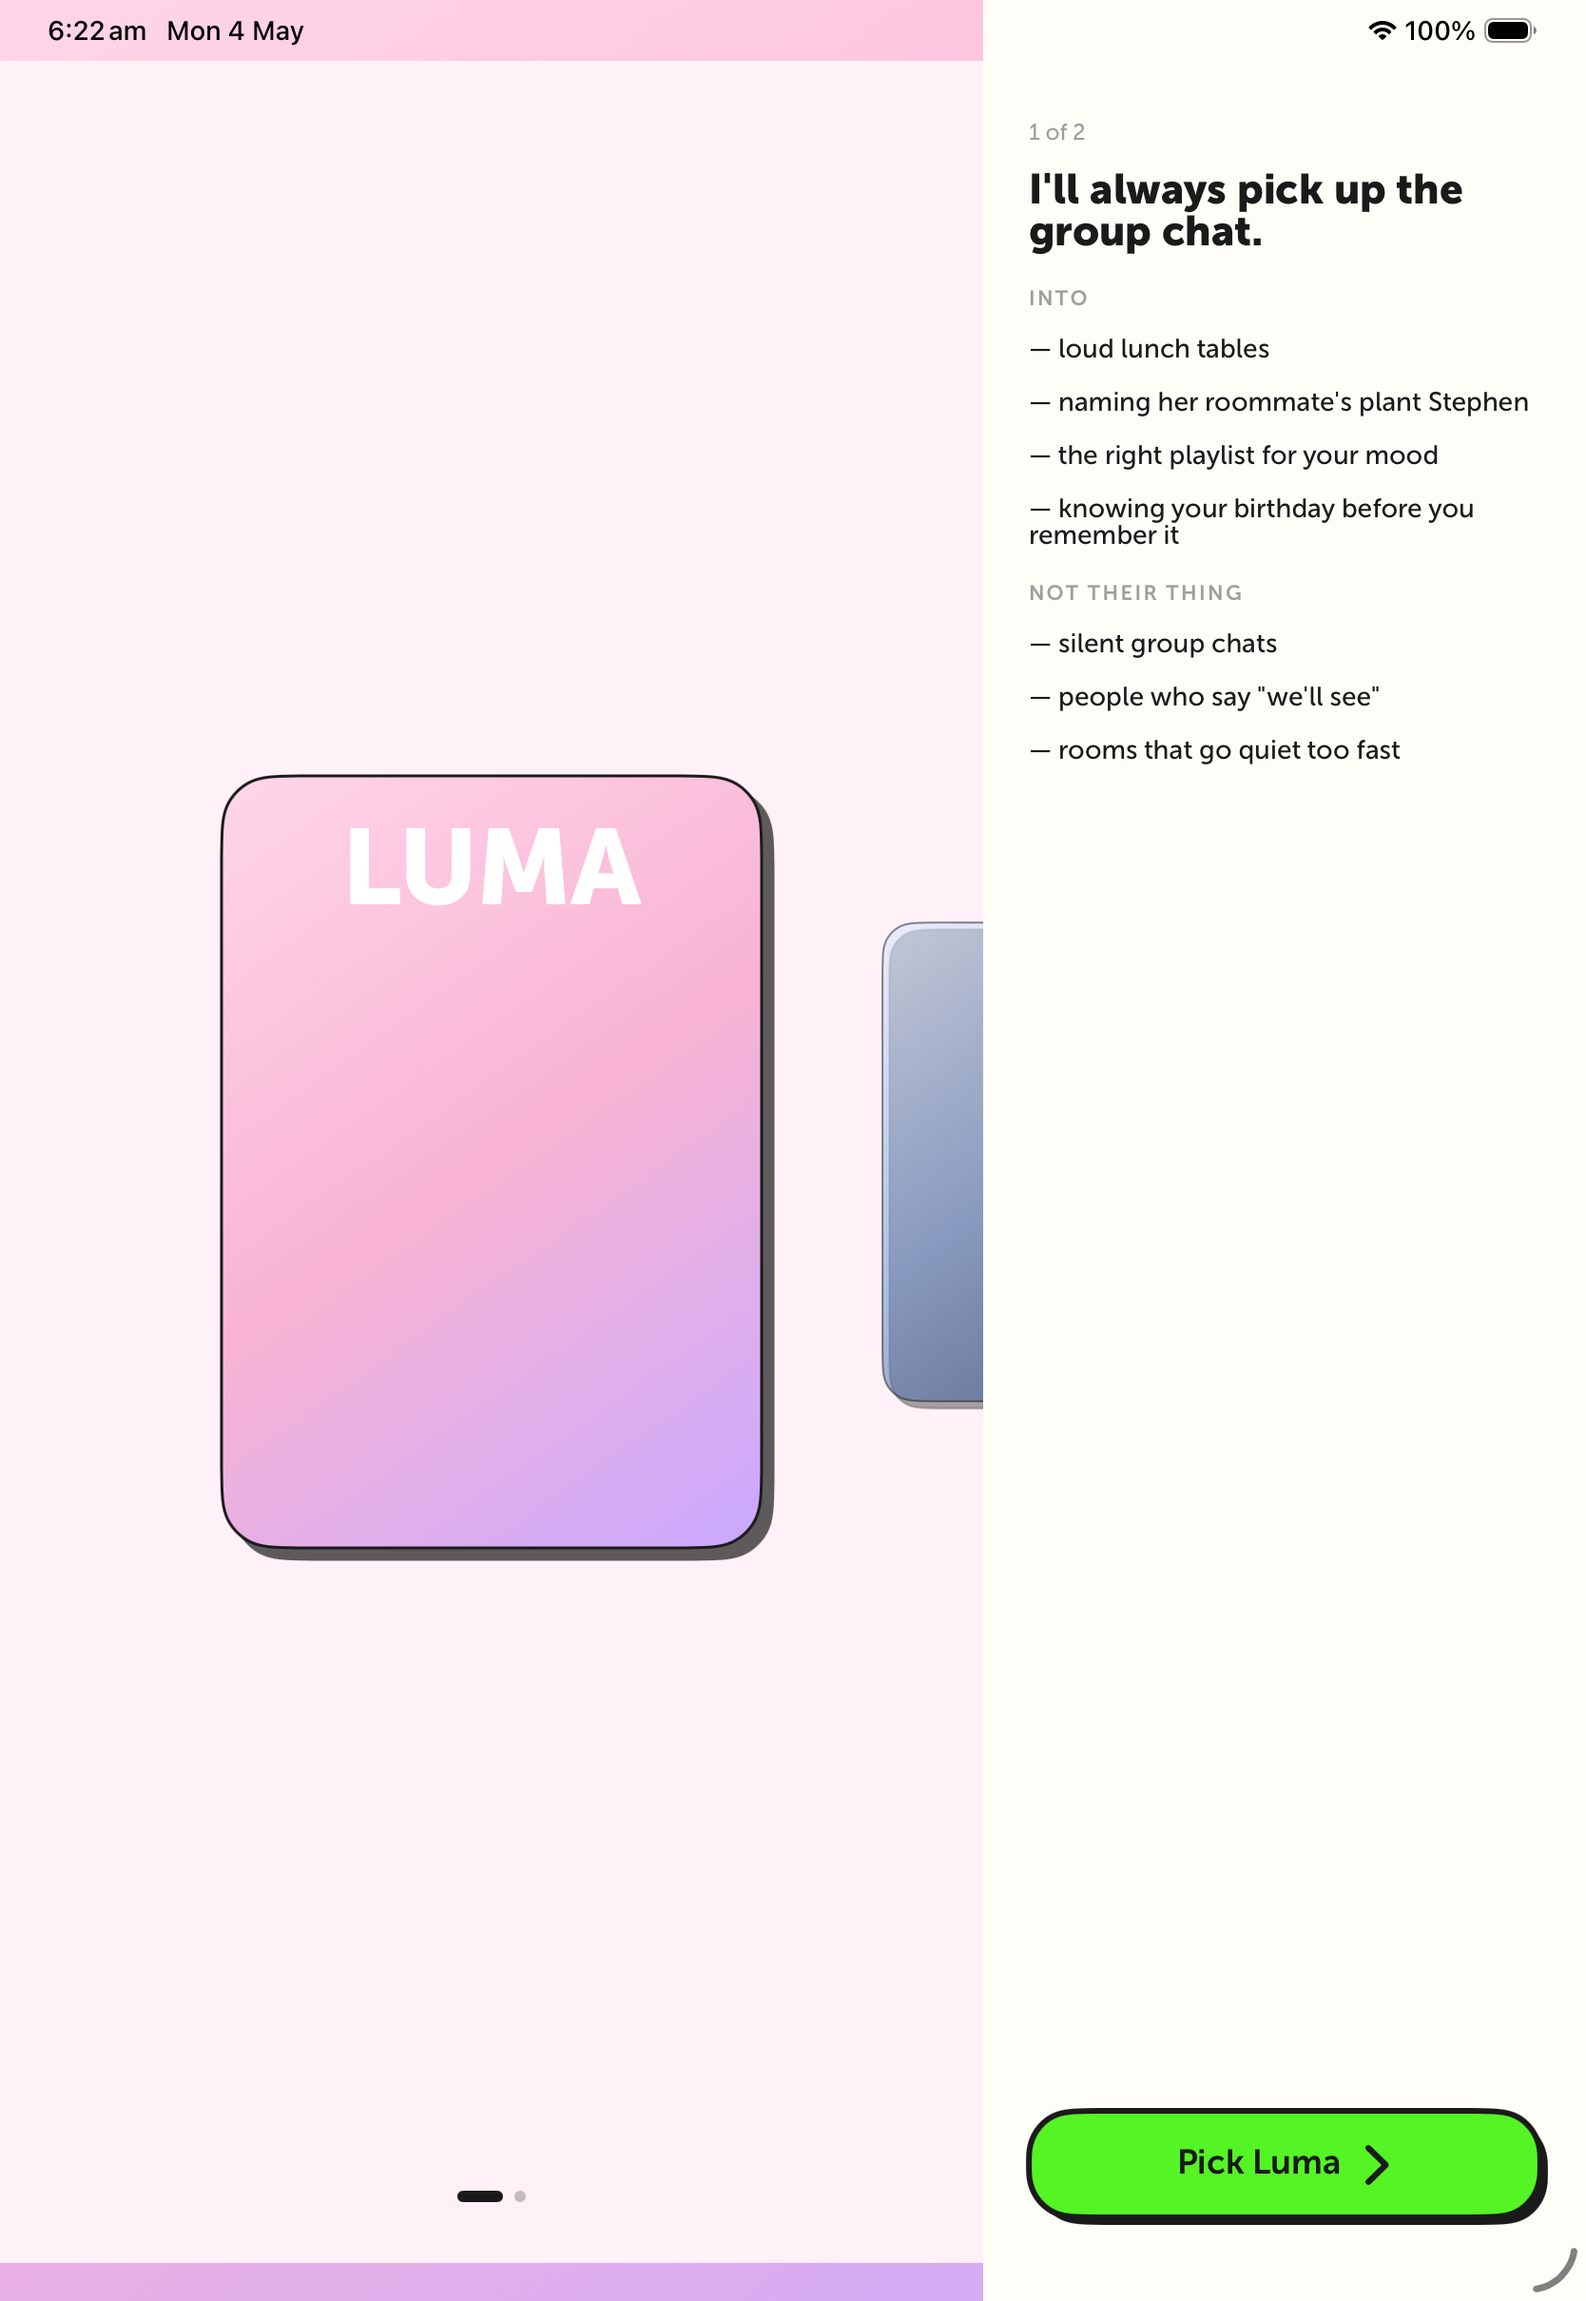
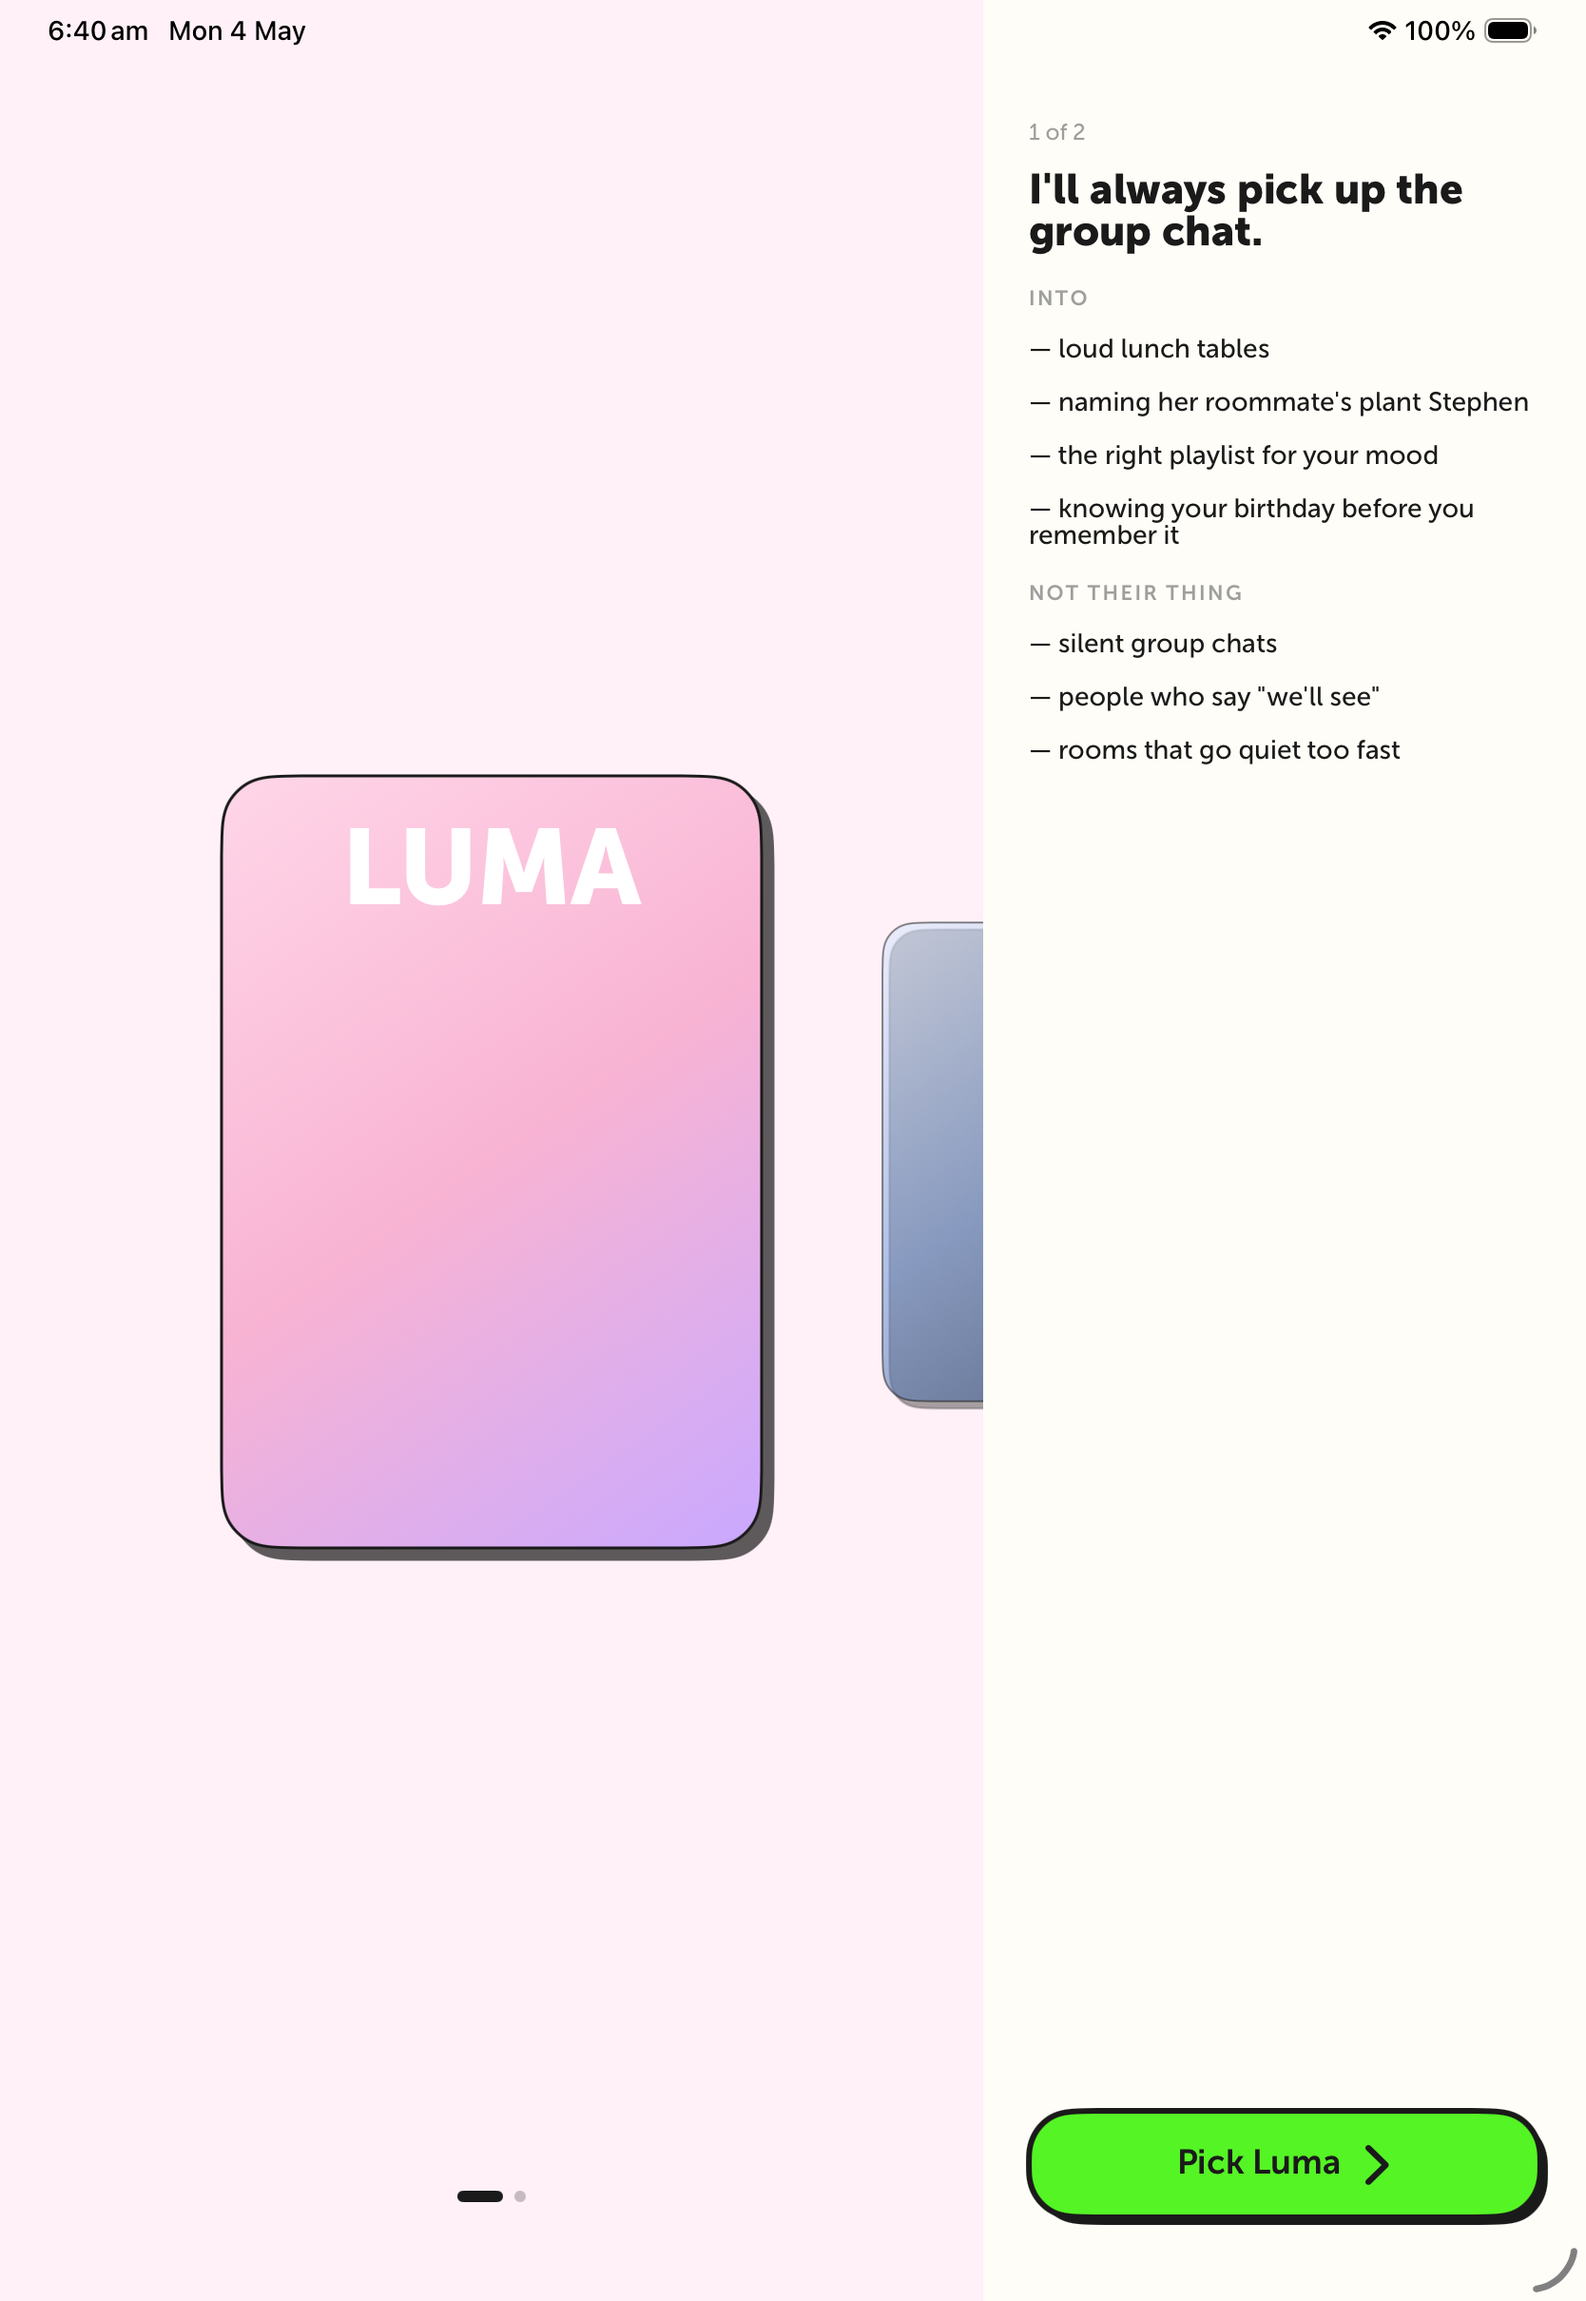
ALT-732: refresh shots — canvas tint now extends through safe areas

Changed region(s): [[0.0, 0.9607, 0.6235, 1.0], [0.0, 0.0, 0.6235, 0.031]]

diff --git a/character-picker/alt732-built-comparison.html b/character-picker/alt732-built-comparison.html
@@ -144,15 +144,15 @@
     <div class="frames">
       <div class="frame">
         <div class="frame-label">iPhone · compact</div>
-        <div class="frame-img"><img src="alt732-built-coverflow-iphone.png?v=1" alt="cover flow iPhone"></div>
+        <div class="frame-img"><img src="alt732-built-coverflow-iphone.png?v=2" alt="cover flow iPhone"></div>
       </div>
       <div class="frame">
         <div class="frame-label">iPad · portrait</div>
-        <div class="frame-img"><img src="alt732-built-coverflow-ipad-portrait.png?v=1" alt="cover flow iPad portrait"></div>
+        <div class="frame-img"><img src="alt732-built-coverflow-ipad-portrait.png?v=2" alt="cover flow iPad portrait"></div>
       </div>
       <div class="frame">
         <div class="frame-label">iPad · landscape (forced)</div>
-        <div class="frame-img"><img src="alt732-built-coverflow-ipad-landscape.png?v=1" alt="cover flow iPad landscape"></div>
+        <div class="frame-img"><img src="alt732-built-coverflow-ipad-landscape.png?v=2" alt="cover flow iPad landscape"></div>
       </div>
     </div>
 
@@ -180,15 +180,15 @@
     <div class="frames">
       <div class="frame">
         <div class="frame-label">iPhone · compact</div>
-        <div class="frame-img"><img src="alt732-built-herostatic-iphone.png?v=1" alt="hero static iPhone"></div>
+        <div class="frame-img"><img src="alt732-built-herostatic-iphone.png?v=2" alt="hero static iPhone"></div>
       </div>
       <div class="frame">
         <div class="frame-label">iPad · portrait</div>
-        <div class="frame-img"><img src="alt732-built-herostatic-ipad-portrait.png?v=1" alt="hero static iPad portrait"></div>
+        <div class="frame-img"><img src="alt732-built-herostatic-ipad-portrait.png?v=2" alt="hero static iPad portrait"></div>
       </div>
       <div class="frame">
         <div class="frame-label">iPad · landscape (forced)</div>
-        <div class="frame-img"><img src="alt732-built-herostatic-ipad-landscape.png?v=1" alt="hero static iPad landscape"></div>
+        <div class="frame-img"><img src="alt732-built-herostatic-ipad-landscape.png?v=2" alt="hero static iPad landscape"></div>
       </div>
     </div>
 
